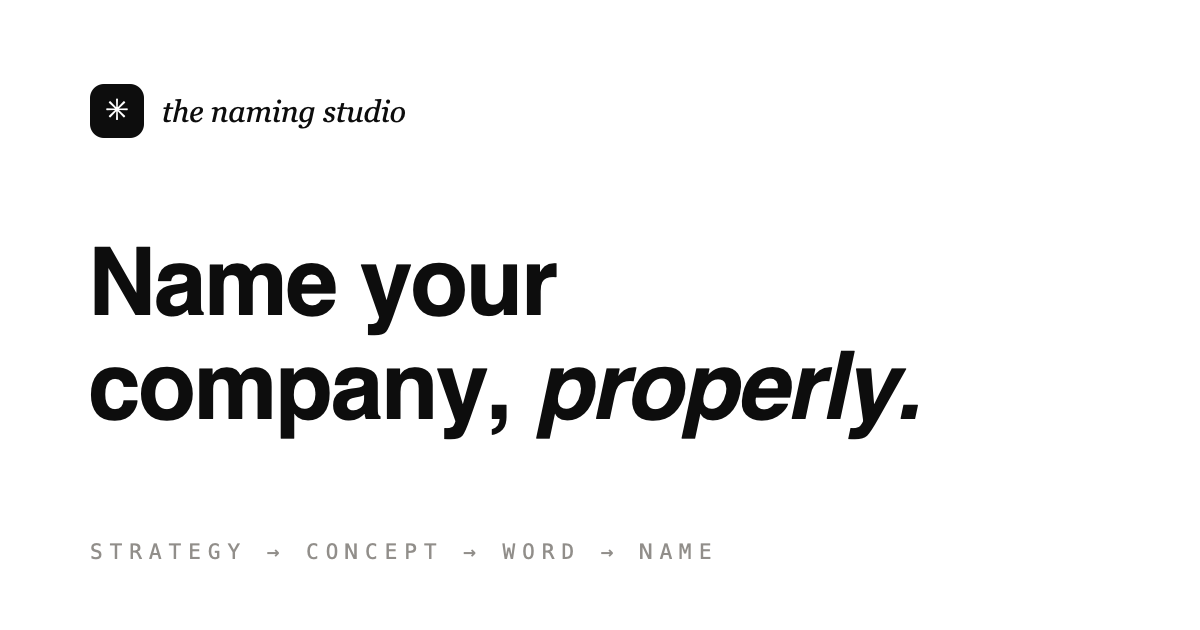
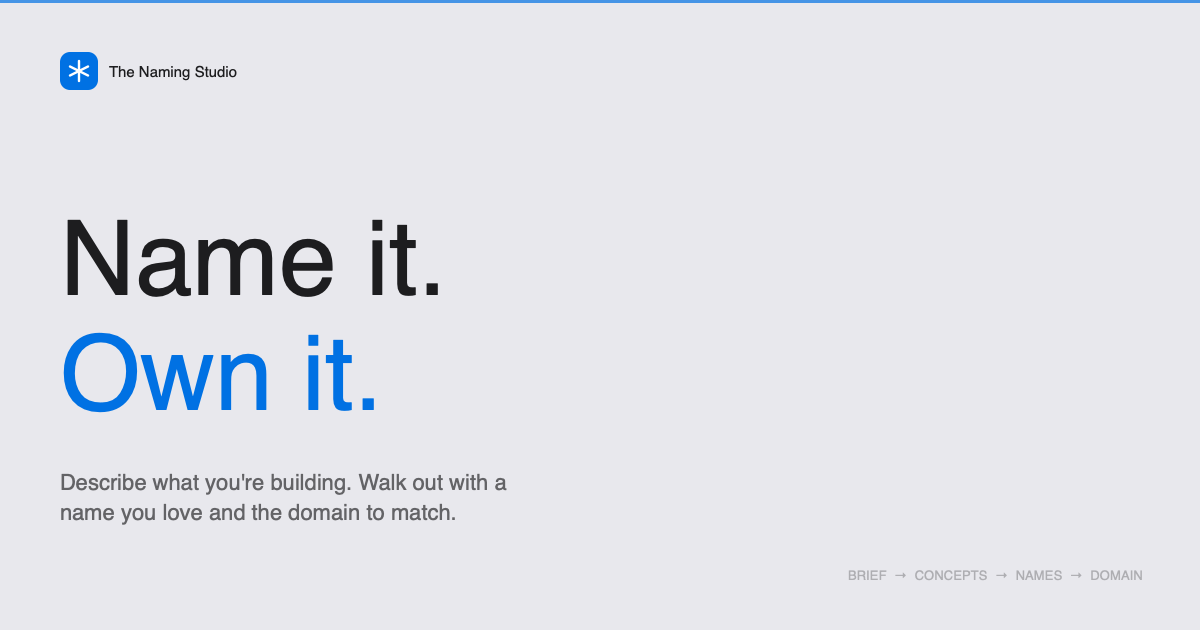
OG image + meta: match landing page design
New og.png (1200×630): gray #e8e8ed background, blue mark, "Name it. /
Own it." headline matching the landing, subtitle + step breadcrumb.
Update og:title / og:description / twitter:* to match landing copy.

diff --git a/index.html b/index.html
@@ -4,24 +4,24 @@
     <meta charset="UTF-8" />
     <link rel="icon" type="image/svg+xml" href="/favicon.svg" />
     <meta name="viewport" content="width=device-width, initial-scale=1.0" />
-    <title>the naming studio — name your company, properly</title>
+    <title>The Naming Studio — Name it. Own it.</title>
     <meta
       name="description"
-      content="From a one-line brief to a brand name you can own, in minutes. Generate original names, check domains, and pick the one that fits."
+      content="Describe what you're building. Walk out with a name you love and the domain to match."
     />
 
     <!-- Social share / link unfurl -->
     <meta property="og:type" content="website" />
-    <meta property="og:site_name" content="the naming studio" />
-    <meta property="og:title" content="the naming studio — name your company, properly" />
-    <meta property="og:description" content="From a one-line brief to a brand name you can own, in minutes." />
+    <meta property="og:site_name" content="The Naming Studio" />
+    <meta property="og:title" content="The Naming Studio — Name it. Own it." />
+    <meta property="og:description" content="Describe what you're building. Walk out with a name you love and the domain to match." />
     <meta property="og:url" content="https://dimitri-frb.github.io/thenamingstudio/" />
     <meta property="og:image" content="https://dimitri-frb.github.io/thenamingstudio/og.png" />
     <meta property="og:image:width" content="1200" />
     <meta property="og:image:height" content="630" />
     <meta name="twitter:card" content="summary_large_image" />
-    <meta name="twitter:title" content="the naming studio — name your company, properly" />
-    <meta name="twitter:description" content="From a one-line brief to a brand name you can own, in minutes." />
+    <meta name="twitter:title" content="The Naming Studio — Name it. Own it." />
+    <meta name="twitter:description" content="Describe what you're building. Walk out with a name you love and the domain to match." />
     <meta name="twitter:image" content="https://dimitri-frb.github.io/thenamingstudio/og.png" />
     <link rel="preconnect" href="https://fonts.googleapis.com" />
     <link rel="preconnect" href="https://fonts.gstatic.com" crossorigin />